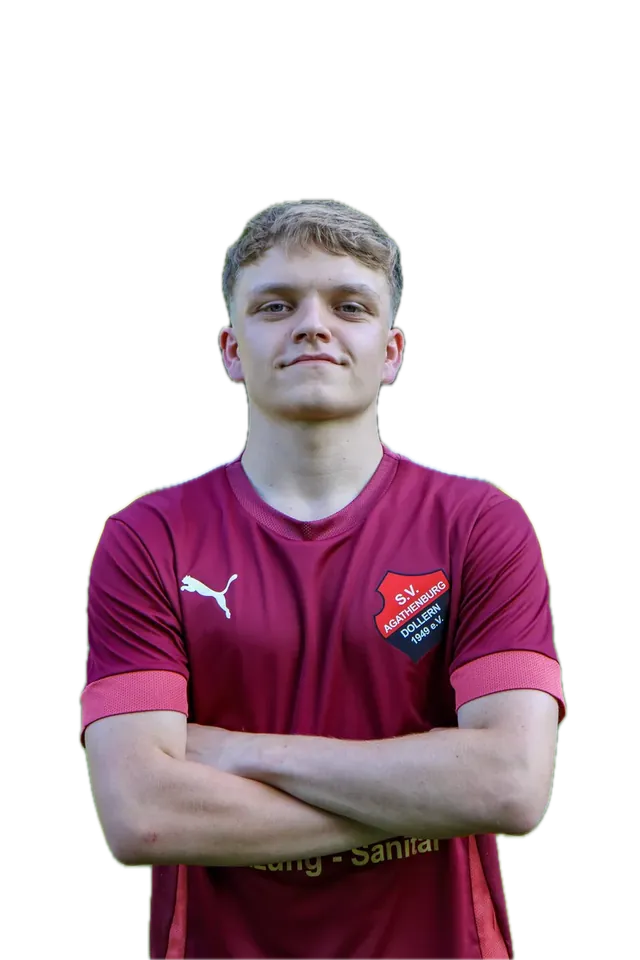
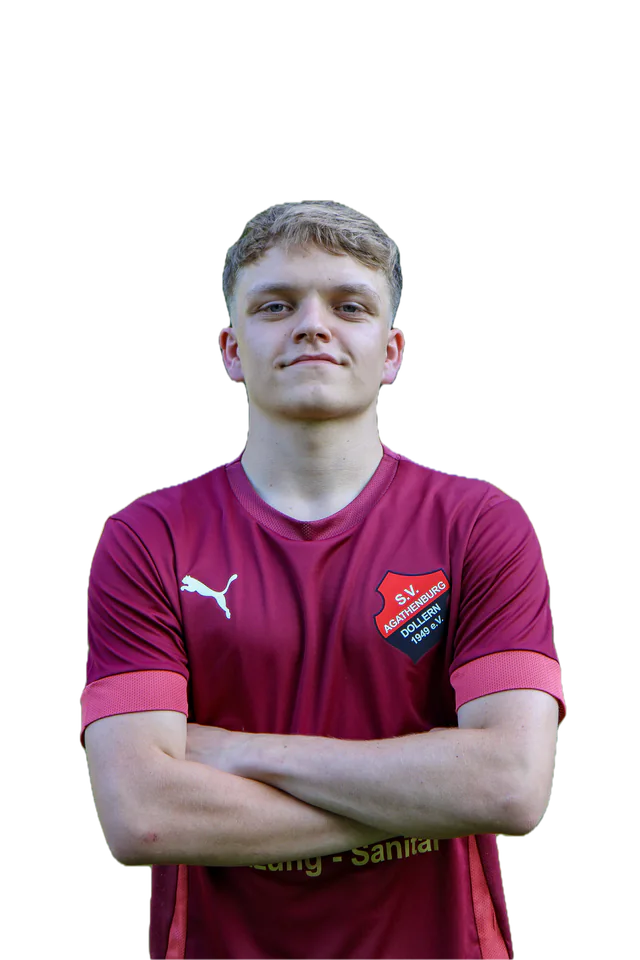
v17-D: Spielerkarten hochwertig — scharfe Freisteller, Walkout aus, ruhige Parallax-Hover
- Freisteller neu aus den Print-Originalen (1400×2100 statt 800×1200):
  macOS Vision + Matte-Choke/Feather + Kanten-Entfärbung (kein Grünsaum);
  cutout/hd/*.webp 960×1440 für Galerie/Modal/Story, cutout/*.webp 640×960
  (gleiche Geometrie) für Gesichter, 3D-Textur, /live
  (scripts/cutout/cutout.js + refine.mjs)
- WALKOUT_ENABLED=false (src/data/walkout.ts + Generator): Karten/Hover/
  Modal zeigen die Fotos, bis Greenscreen-Aufnahmen da sind
- Hover neu: keine 3D-Neigung mehr (geneigter Layer = unscharf), kein
  roter Glow; Spieler hebt sich per Parallaxe vor den Grund, ein Licht-
  Sweep über die Folie, Vorname + Vereinszeile blenden ein — nur
  transform/opacity (Hover-Frametimes p50 16,7 ms); reduced-motion ruhig
- Modal/Galerie: lucide-Icons statt ×/‹/›/↗

diff --git a/src/ui/cards-ds.css b/src/ui/cards-ds.css
@@ -297,3 +297,83 @@
 .scrollhint__mouse { width: 1px; height: 32px; border: 0; border-radius: 0; background: rgba(244, 242, 239, .25); overflow: hidden; }
 .scrollhint__mouse::after { left: 0; top: -10px; width: 1px; height: 10px; border-radius: 0; animation: kmapHint 2.2s var(--ease) infinite; }
 @keyframes kmapHint { to { transform: translateY(42px); } }
+
+/* ── Spielerkarten: scharf, ruhig, edle Hover-Bewegung ─────────
+   Kein roter Glow mehr (weder um die Karte noch um den Freisteller),
+   kein Zeiger-Glanzfleck. Stattdessen beim Hover:
+     1. Spieler hebt sich minimal vor den Kartengrund (Parallaxe zum
+        Zeiger, Prägung/Nummer laufen gegenläufig),
+     2. EIN Licht-Sweep zieht über die Folie (700 ms — die einzige
+        bewusst längere Bewegung im System),
+     3. Vorname + Vereinszeile blenden ein.
+   Nur transform/opacity → Compositor, 60 FPS. Touch: alles sichtbar. */
+.holo {
+  filter: drop-shadow(0 12px 24px rgba(0, 0, 0, .5));
+  transition: transform var(--d-3) var(--ease);
+  /* kein dauerhaftes will-change: sonst rastert Chrome die Karte einmal und
+     skaliert/neigt nur das Bitmap → unscharf. So wird nach der Bewegung
+     wieder gestochen scharf gezeichnet. */
+  will-change: auto;
+}
+.holo:hover { filter: drop-shadow(0 18px 32px rgba(0, 0, 0, .6)); }
+.holo:focus-visible { outline: 2px solid var(--c-white); outline-offset: 4px; }
+.holo__figure {
+  filter: drop-shadow(0 1.4cqw 2.6cqw rgba(0, 0, 0, .55));
+  transform-origin: 50% 85%;
+  transition: opacity var(--d-2) var(--ease), transform var(--d-3) var(--ease);
+}
+.holo__watermark,
+.holo__emboss { transition: transform var(--d-3) var(--ease); }
+.holo__sheen {
+  overflow: hidden;
+  opacity: 1;
+  mix-blend-mode: normal;
+  background: none;
+}
+.holo__sheen::after {
+  content: '';
+  position: absolute;
+  top: -10%;
+  bottom: -10%;
+  left: 0;
+  width: 42%;
+  background: linear-gradient(100deg, rgba(255, 255, 255, 0) 0%, rgba(255, 255, 255, .2) 45%, rgba(255, 255, 255, .32) 50%, rgba(255, 255, 255, .2) 55%, rgba(255, 255, 255, 0) 100%);
+  transform: translateX(-130%) skewX(-14deg);
+  opacity: 0;
+  pointer-events: none;
+}
+.holo__name small,
+.holo__name i,
+.holo__name span { transition: opacity var(--d-2) var(--ease), transform var(--d-2) var(--ease); }
+@media (hover: hover) and (pointer: fine) {
+  .holo:not(.flip-back) { transform: none; }
+  .holo:hover .holo__figure {
+    transform: translate3d(calc(var(--mx, 0) * -2.4cqw), calc(-1.6cqw + var(--my, 0) * -1.2cqw), 0) scale(1.035);
+  }
+  .holo:hover .holo__watermark { transform: translate3d(calc(var(--mx, 0) * 1.6cqw), calc(var(--my, 0) * .8cqw), 0); }
+  .holo:hover .holo__emboss { transform: translate3d(calc(.6cqw + var(--mx, 0) * 1cqw), calc(.6cqw + var(--my, 0) * .6cqw), 0); }
+  .holo:hover .holo__sheen::after {
+    transform: translateX(330%) skewX(-14deg);
+    opacity: 1;
+    transition: transform .8s cubic-bezier(.4, 0, .2, 1), opacity var(--d-1) var(--ease);
+  }
+  /* Name blendet ein: Vorname + Vereinszeile erscheinen beim Hover */
+  .holo:not(.holo--large):not(.holo--stab) .holo__name small,
+  .holo:not(.holo--large):not(.holo--stab) .holo__name i,
+  .holo:not(.holo--large):not(.holo--stab) .holo__name span { opacity: 0; transform: translateY(1.2cqw); }
+  .holo:not(.holo--large):not(.holo--stab):hover .holo__name small,
+  .holo:not(.holo--large):not(.holo--stab):hover .holo__name i,
+  .holo:not(.holo--large):not(.holo--stab):hover .holo__name span { opacity: 1; transform: none; }
+  .holo:not(.holo--large):not(.holo--stab):focus-visible .holo__name small,
+  .holo:not(.holo--large):not(.holo--stab):focus-visible .holo__name span { opacity: 1; transform: none; }
+}
+@media (prefers-reduced-motion: reduce) {
+  .holo:hover .holo__figure,
+  .holo:hover .holo__watermark,
+  .holo:hover .holo__emboss { transform: none; }
+  .holo__sheen::after { display: none; }
+}
+
+/* Fokus im Modal: nur bei Tastatur sichtbar, weiß */
+.flip-scene:focus { outline: none; }
+.flip-scene:focus-visible { outline: 2px solid var(--c-white); outline-offset: 4px; }

diff --git a/src/ui/HoloCard.tsx b/src/ui/HoloCard.tsx
@@ -5,6 +5,7 @@ import { CLUB } from '../data/club'
 import { tierOf, figureFit, cachedFigureFit, FIGURE, type FigureFit } from './cardArt'
 import { WALKOUT_SIZE } from '../data/walkout'
 import { useWalkout } from './walkoutSupport'
+import { hdCutout } from './hdCutout'
 import { WalkoutVideo } from './WalkoutVideo'
 
 // ─────────────────────────────────────────────────────────────
@@ -82,7 +83,9 @@ function startGyro() {
  *  Bild gemessen (cardArt.figureFit) → jeder Kopf sitzt gleich weit unter
  *  der Oberkante, egal wie der Freisteller zugeschnitten ist. Bis zur
  *  Messung bleibt die Figur unsichtbar (kein Springen). */
-export function CardFigure({ src, headU = FIGURE.head }: { src: string; headU?: number }) {
+export function CardFigure({ src: raw, headU = FIGURE.head }: { src: string; headU?: number }) {
+  // v17-D: immer die scharfe HD-Fassung (960×1440) in DOM-Karten
+  const src = hdCutout(raw)
   const [fit, setFit] = useState<FigureFit | null>(() => cachedFigureFit(src))
   return (
     <div className="holo__figwrap" aria-hidden="true">
@@ -144,8 +147,11 @@ export function HoloCard({ player, onClick, large }: Props) {
     const r = el.getBoundingClientRect()
     const px = (e.clientX - r.left) / r.width
     const py = (e.clientY - r.top) / r.height
-    el.style.setProperty('--tiltY', `${(px - 0.5) * 14}deg`)
-    el.style.setProperty('--tiltX', `${(0.5 - py) * 14}deg`)
+    // v17-D: keine 3D-Neigung mehr am Desktop — ein geneigter Layer wird
+    // als Bitmap umgerechnet und wirkt unscharf. Stattdessen Parallaxe:
+    // Spieler vorn, Prägung/Nummer hinten gegenläufig (nur transform).
+    el.style.setProperty('--mx', (px - 0.5).toFixed(3))
+    el.style.setProperty('--my', (py - 0.5).toFixed(3))
     el.style.setProperty('--px', `${px * 100}%`)
     el.style.setProperty('--py', `${py * 100}%`)
     el.style.setProperty('--glow', '1')
@@ -155,6 +161,8 @@ export function HoloCard({ player, onClick, large }: Props) {
     if (!el) return
     el.style.setProperty('--tiltX', '0deg')
     el.style.setProperty('--tiltY', '0deg')
+    el.style.setProperty('--mx', '0')
+    el.style.setProperty('--my', '0')
     el.style.setProperty('--px', '50%')
     el.style.setProperty('--py', '30%')
     el.style.setProperty('--glow', '0')

diff --git a/src/ui/PlayerModal.tsx b/src/ui/PlayerModal.tsx
@@ -7,6 +7,8 @@ import { tierOf, loadCardAssets } from './cardArt'
 import { shareStory, type ShareResult } from './storyShare'
 import { IgIcon } from './Icons'
 import { lockScroll, unlockScroll } from './PlayerGallery'
+import { hdCutout } from './hdCutout'
+import { X, ChevronLeft, ChevronRight } from 'lucide-react'
 
 const close = () => useStore.getState().setSelectedPlayer(null)
 
@@ -31,7 +33,7 @@ function ModalContent({ player, from = 0 }: { player: Player; from?: number }) {
     window.addEventListener('keydown', onKey, true)
     lockScroll()
     // Story-Assets vorladen → beim Teilen bleibt die Nutzergeste „frisch"
-    void loadCardAssets(player.cutoutUrl ?? null)
+    void loadCardAssets(hdCutout(player.cutoutUrl ?? null))
     const prev = document.activeElement as HTMLElement | null
     panelRef.current?.querySelector<HTMLElement>('.flip-scene')?.focus()
     return () => {
@@ -191,7 +193,9 @@ export function PlayerModal() {
             if (Math.abs(dx) > 48 && Math.abs(dx) > Math.abs(dy) * 1.4) go(dx < 0 ? 1 : -1)
           }}
         >
-          <button className="modal-close" onClick={close} aria-label="Schließen">×</button>
+          <button className="modal-close" onClick={close} aria-label="Schließen">
+            <X size={18} strokeWidth={1.5} aria-hidden="true" />
+          </button>
           {nav && list && (
             <>
               <span className="modal-count" aria-live="polite">
@@ -205,7 +209,7 @@ export function PlayerModal() {
                 }}
                 aria-label={`Vorheriger Spieler: ${list[(idx - 1 + list.length) % list.length].name}`}
               >
-                ‹
+                <ChevronLeft size={22} strokeWidth={1.5} aria-hidden="true" />
               </button>
               <button
                 className="modal-nav modal-nav__next"
@@ -215,7 +219,7 @@ export function PlayerModal() {
                 }}
                 aria-label={`Nächster Spieler: ${list[(idx + 1) % list.length].name}`}
               >
-                ›
+                <ChevronRight size={22} strokeWidth={1.5} aria-hidden="true" />
               </button>
             </>
           )}

diff --git a/src/ui/PlayerGallery.tsx b/src/ui/PlayerGallery.tsx
@@ -7,6 +7,7 @@ import { useStore } from '../store/useStore'
 import { HoloCard } from './HoloCard'
 import { StaffCard } from './StaffCard'
 import { shareStory } from './storyShare'
+import { X, ArrowUpRight } from 'lucide-react'
 
 // ─────────────────────────────────────────────────────────────
 // „Alle Spieler anzeigen" — Vollbild-Overlay über den ganzen Kader,
@@ -110,7 +111,9 @@ export function PlayerGallery({ open, onClose }: { open: boolean; onClose: () =>
                 <span className="pgal__kicker">Der ganze Kader · 1. Herren</span>
                 <h3 className="pgal__title" id="pgal-title">Alle Spieler</h3>
               </div>
-              <button className="pgal__close" onClick={onClose} aria-label="Schließen">×</button>
+              <button className="pgal__close" onClick={onClose} aria-label="Schließen">
+                <X size={18} strokeWidth={1.5} aria-hidden="true" />
+              </button>
             </header>
 
             <div className="pgal__scroll">
@@ -128,7 +131,8 @@ export function PlayerGallery({ open, onClose }: { open: boolean; onClose: () =>
                         <div key={p.id} className="pgal__cardwrap">
                           <HoloCard player={p} onClick={(pl) => setSelected(pl)} />
                           <button className="pgal__share" onClick={() => void shareStory(p)}>
-                            Story teilen ↗
+                            Story teilen
+                            <ArrowUpRight size={12} strokeWidth={1.5} aria-hidden="true" />
                           </button>
                         </div>
                       ))}

diff --git a/scripts/cutout/cutout.js b/scripts/cutout/cutout.js
@@ -1,0 +1,25 @@
+ObjC.import('Foundation'); ObjC.import('Vision'); ObjC.import('CoreImage'); ObjC.import('AppKit')
+function run(argv) {
+  const inDir = argv[0], outDir = argv[1]
+  const fm = $.NSFileManager.defaultManager
+  const files = ObjC.deepUnwrap(fm.contentsOfDirectoryAtPathError(inDir, null)).filter(f => /\.(webp|jpg|png)$/i.test(f))
+  const log = []
+  for (const f of files) {
+    try {
+      const url = $.NSURL.fileURLWithPath(inDir + '/' + f)
+      const handler = $.VNImageRequestHandler.alloc.initWithURLOptions(url, $({}))
+      const req = $.VNGenerateForegroundInstanceMaskRequest.alloc.init
+      const ok = handler.performRequestsError($([req]), null)
+      const res = req.results
+      if (!res || res.count == 0) { log.push('nomask ' + f); continue }
+      const obs = res.objectAtIndex(0)
+      const buf = obs.generateMaskedImageOfInstancesFromRequestHandlerCroppedToInstancesExtentError(obs.allInstances, handler, false, null)
+      const ci = $.CIImage.imageWithCVPixelBuffer(buf)
+      const rep = $.NSBitmapImageRep.alloc.initWithCIImage(ci)
+      const png = rep.representationUsingTypeProperties($.NSBitmapImageFileTypePNG, $({}))
+      png.writeToFileAtomically(outDir + '/' + f.replace(/\.\w+$/, '.png'), true)
+      log.push('ok ' + f + ' instances=' + obs.allInstances.count)
+    } catch (e) { log.push('err ' + f + ' ' + e) }
+  }
+  return log.join('\n')
+}

diff --git a/src/ui/storyShare.ts b/src/ui/storyShare.ts
@@ -2,6 +2,7 @@ import type { Player } from '../data/players'
 import { POSITION_LABEL } from '../data/players'
 import { CLUB, CONTACT, NEXT_MATCH } from '../data/content'
 import { CARD_RATIO, FONT_BODY, FONT_DISPLAY, drawPlayerCard, loadCardAssets } from './cardArt'
+import { hdCutout } from './hdCutout'
 
 // ─────────────────────────────────────────────────────────────
 // One-Tap Instagram-Story-Share. v14-D: das Story-Bild (1080×1920)
@@ -35,7 +36,7 @@ function setSpacing(ctx: CanvasRenderingContext2D, px: number) {
 
 /** Zeichnet das Story-Bild und liefert den Canvas zurück. */
 export async function renderStoryCanvas(player: Player): Promise<HTMLCanvasElement> {
-  const assets = await loadCardAssets(player.cutoutUrl ?? null)
+  const assets = await loadCardAssets(hdCutout(player.cutoutUrl ?? null))
   const canvas = document.createElement('canvas')
   canvas.width = W
   canvas.height = H

diff --git a/src/ui/walkoutSupport.ts b/src/ui/walkoutSupport.ts
@@ -1,5 +1,5 @@
 import { useState } from 'react'
-import { WALKOUT } from '../data/walkout'
+import { WALKOUT, WALKOUT_ENABLED } from '../data/walkout'
 
 // v16-W: Helfer der Walkout-Videos (eigene Datei wegen Fast Refresh).
 
@@ -18,5 +18,5 @@ export function prefersHevcAlpha(): boolean {
 /** Hat die id ein Walkout? Nach einem Ladefehler (fail) fällt die Karte aufs Foto zurück. */
 export function useWalkout(id: string) {
   const [failed, setFailed] = useState(false)
-  return { has: !!WALKOUT[id] && !failed, fail: () => setFailed(true) }
+  return { has: WALKOUT_ENABLED && !!WALKOUT[id] && !failed, fail: () => setFailed(true) }
 }

diff --git a/src/ui/hdCutout.ts b/src/ui/hdCutout.ts
@@ -1,0 +1,9 @@
+// v17-D: scharfe Freisteller für die DOM-Karten (Galerie, Modal, Story).
+// public/players/cutout/hd/*.webp = 960×1440 aus den Print-Originalen
+// (Kanten entfärbt, kein Grünsaum). Die 640er unter cutout/ bleiben für
+// kleine Gesichter (Taktik-Board), die 3D-Kartentextur und /live.
+// Freisteller aus dem Admin (public/generated/…) haben keine HD-Fassung.
+export function hdCutout<T extends string | null | undefined>(url: T): T {
+  if (!url) return url
+  return url.replace(/\/players\/cutout\/([^/?#]+\.webp)/, '/players/cutout/hd/$1') as T
+}

diff --git a/src/data/walkout.ts b/src/data/walkout.ts
@@ -8,6 +8,12 @@ export interface WalkoutAsset {
   slug: string
 }
 
+/** v17-D: Walkout-Videos in Karten/Hover/Modal zeigen? Aus, bis die
+ *  Greenscreen-Aufnahmen da sind (Dolly-Clips zu unscharf) — dann zeigen
+ *  die Karten die scharfen Foto-Freisteller. Code + Assets bleiben.
+ *  (Die 3D-Aufstellung auf /live nutzt den Atlas unabhängig davon.) */
+export const WALKOUT_ENABLED = false
+
 /** Cache-Buster der aktuellen Asset-Generation. */
 export const WALKOUT_VERSION = 'muv5a9yx'
 export const WALKOUT_BASE = '/players/walkout/'
